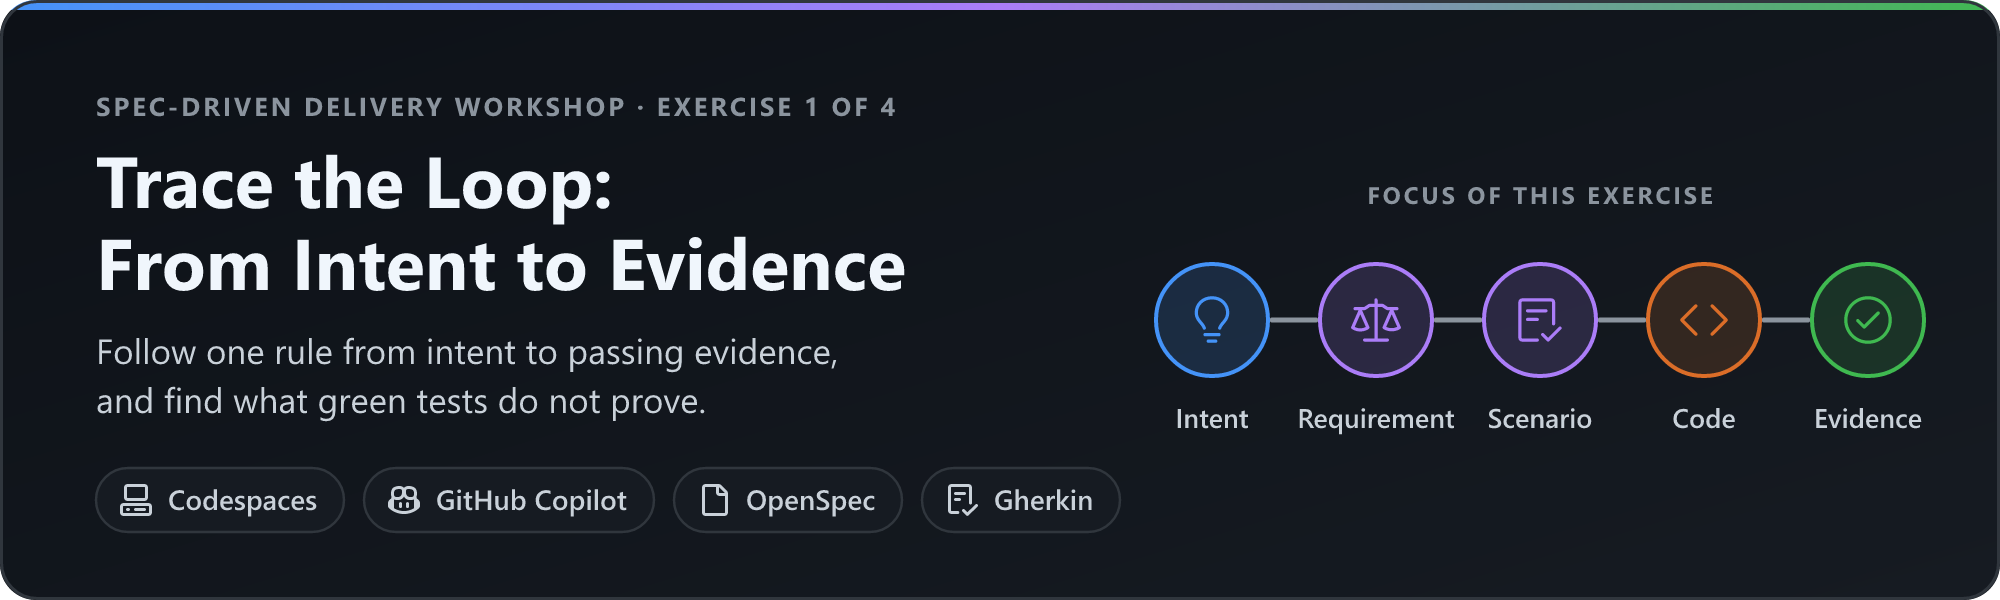
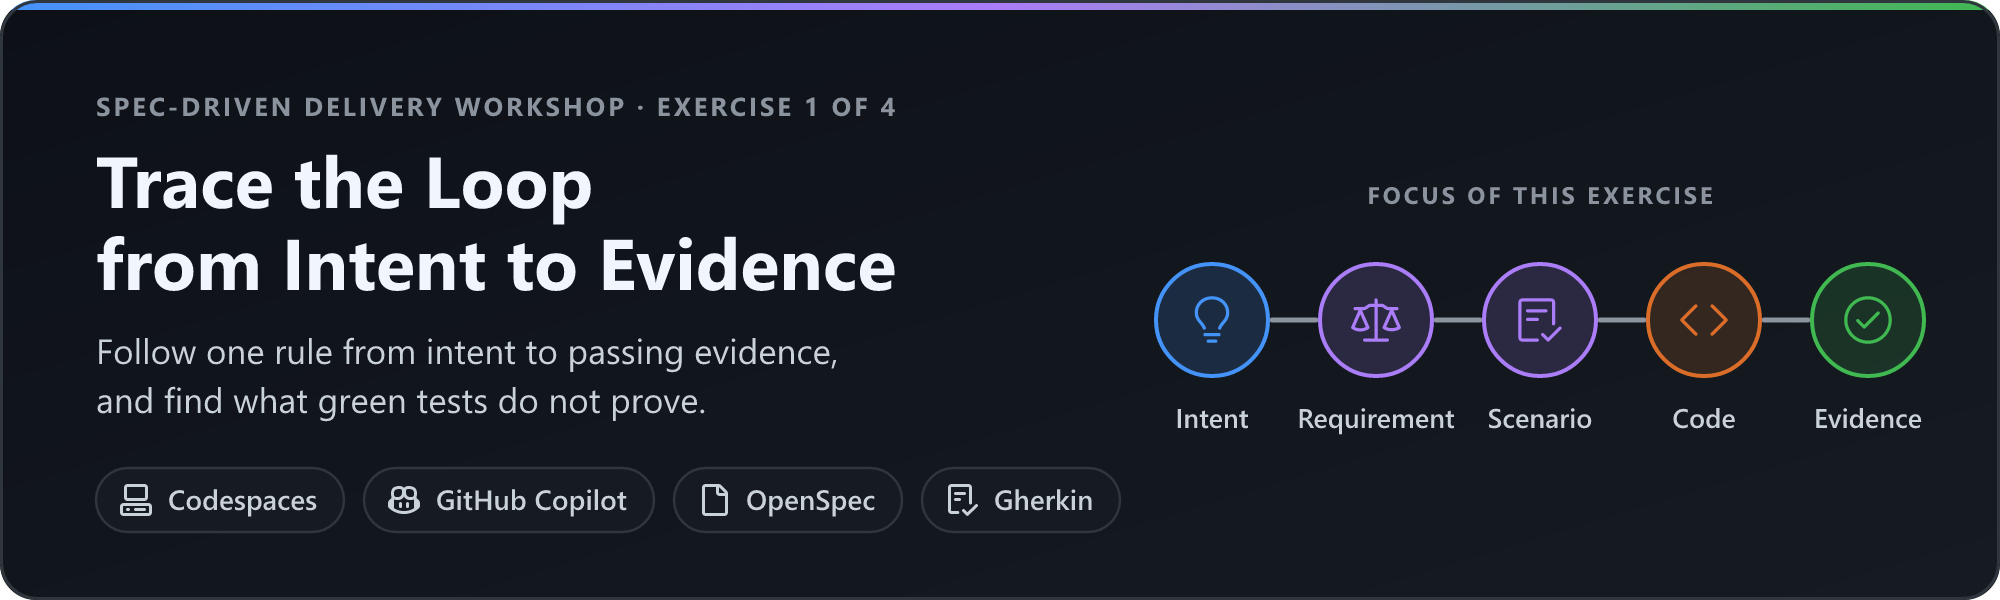
Fix exercise start and clarify steps
Use a title without a colon so the exercise starts, accept only on-call
wording in step 2, add a Copilot Chat screenshot and clearer hints.

Copilot-Session: a478d302-1e91-490d-ab28-d5b569ad62bb

Changed region(s): [[0.031, 0.39, 0.465, 0.51], [0.279, 0.33, 0.31, 0.36]]

diff --git a/.github/steps/1-step.md b/.github/steps/1-step.md
@@ -1,6 +1,6 @@
 ## Step 1: Follow one behavior from intent to evidence
 
-<img width="800" alt="Exercise 1 of 4 of the Spec-Driven Delivery workshop: Trace the Loop: From Intent to Evidence. Follow one rule from intent to passing evidence, and find what green tests do not prove. Tools: Codespaces, GitHub Copilot, OpenSpec and Gherkin. Focus of this exercise: Intent, Requirement, Scenario, Code and Evidence." src="../images/banner.png">
+<img width="800" alt="Exercise 1 of 4 of the Spec-Driven Delivery workshop: Trace the Loop from Intent to Evidence. Follow one rule from intent to passing evidence, and find what green tests do not prove. Tools: Codespaces, GitHub Copilot, OpenSpec and Gherkin. Focus of this exercise: Intent, Requirement, Scenario, Code and Evidence." src="../images/banner.png">
 
 Welcome to the Contoso Health Plan delivery team, @{{ login }}! :wave: Your team is building inbound document triage: faxes and scans must reach the right queue fast, attach to a member only when certain, and go to people whenever the system is unsure. Before the next planning session, your lead asks you to show how one business rule travels from intent to evidence.
 
@@ -41,6 +41,8 @@ Your copy of this repository comes with a ready-made [codespace](https://docs.gi
    > git switch -c trace-triage
    > ```
 
+   The terminal shows `Switched to a new branch 'trace-triage'`.
+
 <details>
 <summary>Having trouble? 🤷</summary><br/>
 
@@ -74,7 +76,7 @@ You'll follow scenario `003-US1-AS1`, the rule that decides whether a document i
    > npm run test:bdd -- --tags @003-US1-AS1
    > ```
 
-1. Check the summary at the end of the output: `3 scenarios (3 passed)`. Each row of the **Examples** table runs as its own scenario.
+1. Near the end of the output, find `3 scenarios (3 passed)`. Each row of the **Examples** table runs as its own scenario.
 
 <details>
 <summary>Having trouble? 🤷</summary><br/>
@@ -82,6 +84,8 @@ You'll follow scenario `003-US1-AS1`, the rule that decides whether a document i
 - **`cucumber-js: not found`:** The setup did not finish. Run `npm ci`, then run the command again.
 
 - **`0 scenarios`:** Check the tag. It starts with `@` and uses capital letters: `@003-US1-AS1`.
+
+- **An `ENOENT` error that mentions `@003-US1-AS1`:** Keep the `--` before `--tags`. It passes the tag to Cucumber instead of npm.
 
 </details>
 
@@ -119,6 +123,8 @@ You'll follow scenario `003-US1-AS1`, the rule that decides whether a document i
 <summary>Having trouble? 🤷</summary><br/>
 
 - **`git push` asks for credentials or is rejected:** Make sure the codespace belongs to your copy, `{{ full_repo_name }}`. Run `git remote -v` to check.
+
+- **`git commit` says `nothing to commit`:** Save the worksheet with `Ctrl+S` (`Cmd+S` on Mac), then run the three commands again.
 
 - **Mona did not respond:** Check that you pushed to the `trace-triage` branch and that `trace/document-triage.md` changed. You can watch the run in the [Actions tab](https://github.com/{{ full_repo_name }}/actions).
 

diff --git a/.github/steps/3-step.md b/.github/steps/3-step.md
@@ -23,13 +23,15 @@ A spec can keep acceptance scenarios that no automated check covers yet, and eve
    > For each one, quote its THEN line.
    > ```
 
-   > 💡 **Tip:** If Copilot answers without reading the files, add them to the chat: type `#` in the chat box and pick each file.
+   > 💡 **Tip:** If Copilot answers without reading the files, add them to the chat: type `#` in the chat box and pick each file. Each file you add appears above your prompt.
+   >
+   > <img width="350" alt="The Copilot Chat box with three files added as context, shown above the prompt field" src="../images/copilot-chat-context.png">
 
 1. Pick one ID from the list and verify it yourself: search the repository for it (`Ctrl+Shift+F` or `Cmd+Shift+F`). It should appear only in the spec.
 
 1. Open `openspec/changes/add-inbound-document-triage/design.md` and read the first decision. It lists what the first slice receives as input instead of doing itself. Each of those is a capability someone must confirm exists.
 
-1. In `trace/document-triage.md`, fill in the **Gaps** section:
+1. In `trace/document-triage.md`, fill in the **Gaps** section. Write each answer after its label's colon, on the same line:
 
    - **Scenario with no automated evidence:** the ID you verified.
    - **Why it matters:** one sentence on the risk if nobody checks it.
@@ -66,9 +68,11 @@ A spec can keep acceptance scenarios that no automated check covers yet, and eve
 <details>
 <summary>Having trouble? 🤷</summary><br/>
 
-- **Mona says the gap is not valid:** Choose a `#### Scenario:` ID from the spec that does not appear in `features/document-triage.feature` or in a unit test name. Fix the worksheet, then commit and push again. Mona checks the pull request again on every push.
+- **Mona says the Gaps section doesn't name a scenario with no automated evidence:** Choose a `#### Scenario:` ID from the spec that does not appear in `features/document-triage.feature` or in a unit test name. Copy it exactly as the spec writes it, with capital letters. Fix the worksheet, then commit and push again. Mona checks the pull request again on every push.
 
-- **Mona says a line is empty:** Write the capability and the confirming role on the same line as their labels.
+- **Mona says the capability or the role is missing:** Write each one after its label's colon, on the same line. Describe the capability in a short sentence, not a single word.
+
+- **You already opened a pull request from `trace-triage`:** Use it. Push a new commit to it, and Mona checks the pull request again.
 
 - **Mona did not respond:** Check that the pull request targets `main`. You can watch the run in the [Actions tab](https://github.com/{{ full_repo_name }}/actions).
 

diff --git a/README.md b/README.md
@@ -1,6 +1,6 @@
-# Trace the Loop: From Intent to Evidence
+# Trace the Loop from Intent to Evidence
 
-<img width="800" alt="Exercise 1 of 4 of the Spec-Driven Delivery workshop: Trace the Loop: From Intent to Evidence. Follow one rule from intent to passing evidence, and find what green tests do not prove. Tools: Codespaces, GitHub Copilot, OpenSpec and Gherkin. Focus of this exercise: Intent, Requirement, Scenario, Code and Evidence." src=".github/images/banner.png">
+<img width="800" alt="Exercise 1 of 4 of the Spec-Driven Delivery workshop: Trace the Loop from Intent to Evidence. Follow one rule from intent to passing evidence, and find what green tests do not prove. Tools: Codespaces, GitHub Copilot, OpenSpec and Gherkin. Focus of this exercise: Intent, Requirement, Scenario, Code and Evidence." src=".github/images/banner.png">
 
 _Follow one business rule from intent to passing evidence, and find out what green tests do not prove._
 
@@ -29,7 +29,7 @@ This is exercise 1 of 4 in the **Spec-Driven Delivery with OpenSpec, Gherkin and
 
 Simply copy the exercise to your account, then give your favorite Octocat (Mona) **about 20 seconds** to prepare the first lesson, then **refresh the page**.
 
-[![](https://img.shields.io/badge/Copy%20Exercise-%E2%86%92-1f883d?style=for-the-badge&logo=github&labelColor=197935)](https://github.com/new?template_owner=samueltauil&template_name=spec-driven-trace-the-loop&owner=%40me&name=skills-spec-driven-trace-the-loop&description=Exercise:+Trace+the+Loop:+From+Intent+to+Evidence&visibility=public)
+[![](https://img.shields.io/badge/Copy%20Exercise-%E2%86%92-1f883d?style=for-the-badge&logo=github&labelColor=197935)](https://github.com/new?template_owner=samueltauil&template_name=spec-driven-trace-the-loop&owner=%40me&name=skills-spec-driven-trace-the-loop&description=Exercise:+Trace+the+Loop+from+Intent+to+Evidence&visibility=public)
 
 <details>
 <summary>Having trouble? 🤷</summary><br/>

diff --git a/.github/steps/2-step.md b/.github/steps/2-step.md
@@ -37,7 +37,7 @@ Each row of your worksheet answers one question:
    > npm run test:bdd -- --tags @003-US4-AS3
    > ```
 
-1. In `trace/document-triage.md`, fill in every row of the **Trace 2** table in your own words. For **Evidence**, copy the summary line Cucumber printed. In **Not proven by the evidence**, name what the spec's `THEN` line promises that the test does not check.
+1. In `trace/document-triage.md`, fill in every row of the **Trace 2** table in your own words. For **Intent**, the brief's prompt has one line about appeals. For **Evidence**, copy the summary line Cucumber printed. In **Not proven by the evidence**, name what the spec's `THEN` line promises that the test does not check.
 
 1. Save, commit with your own message, and push to `trace-triage` as you did in step 1.
 
